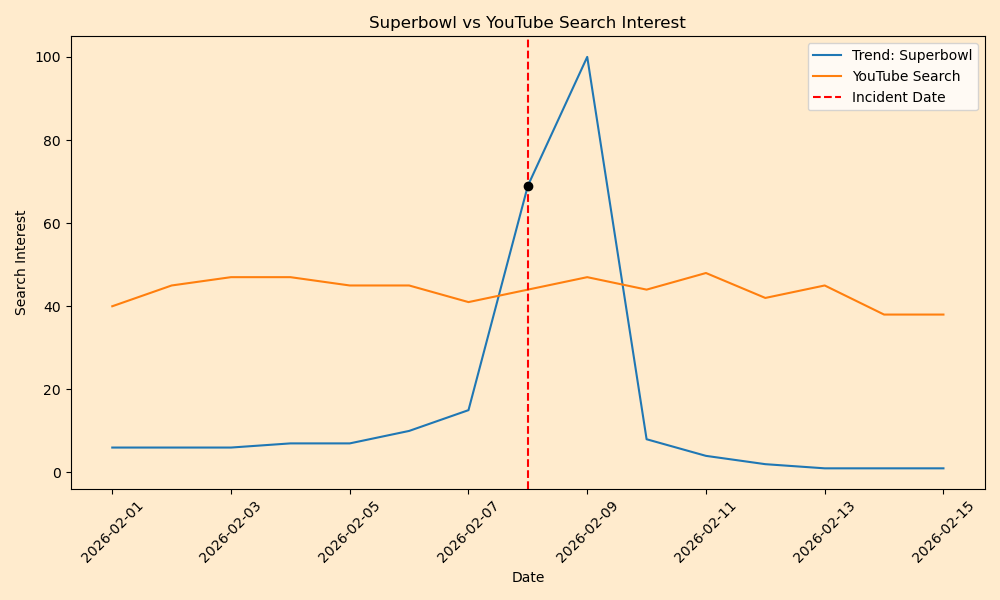
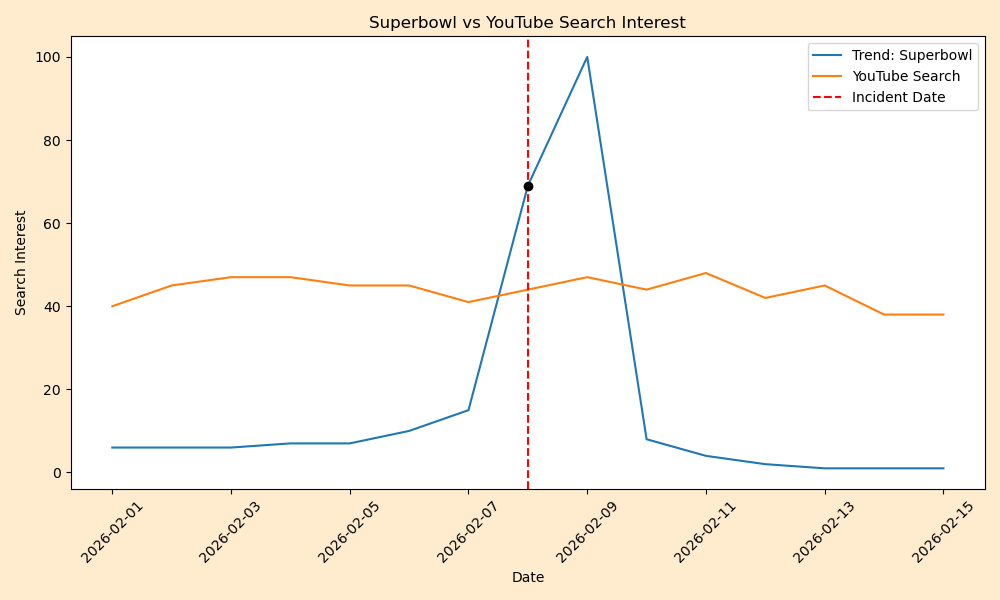
new color

diff --git a/data_collection/google_trend.py b/data_collection/google_trend.py
@@ -88,7 +88,6 @@ def plot_trends(csv_filename, incident_date_str):
     plt.legend()
     plt.xticks(rotation=45)
     plt.tight_layout()
-    plt.gca().set_facecolor('#ffebcd')
     plt.gcf().set_facecolor('#ffebcd')
     plt.tight_layout()
     plt.show()
